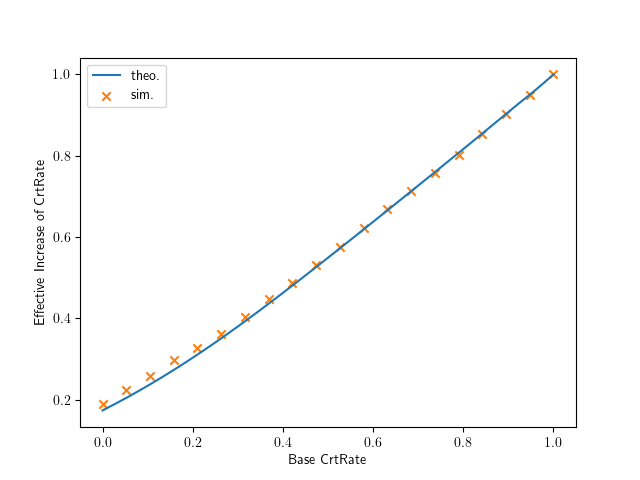
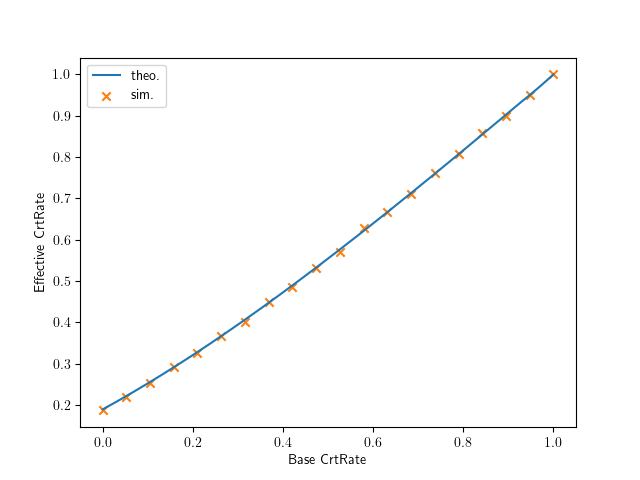
fix theory of royal weapons' crtrate

diff --git a/program/royal_crtrate/theo_sim.py b/program/royal_crtrate/theo_sim.py
@@ -25,7 +25,7 @@ def simulate(nTrial, p, x):
 def theory(p, x):
     r = 1
     ret = 0
-    for n in range(1, 5):
+    for n in range(1, 6):
         q = min(p + (n-1) * x, 1)
         ret += n * q * r
         r *= (1 - q)
@@ -45,7 +45,7 @@ ax = fig.add_subplot(111)
 ax.plot(theoPs, [theory(p, incP) for p in theoPs], label="theo.", color='C0')
 ax.scatter(simPs, [simulate(10000, p, incP) for p in simPs], label="sim.", marker='x', color='C1')
 ax.set_xlabel("Base CrtRate")
-ax.set_ylabel("Effective Increase of CrtRate")
+ax.set_ylabel("Effective CrtRate")
 ax.legend()
 fig.savefig("theo_sim.png")
 

diff --git a/docs/documents.md b/docs/documents.md
@@ -414,9 +414,7 @@ $$
 $$
 
 以下の図は，理論で導出した実質的な確率と，1万回のシミュレーション結果です．
-ちょっとずれているのでもしかしたら理論式が間違っているかもしれませんが，まあまあシミュレーション結果と合っているので良しとしてください．
-なにぶん，私は確率や統計に疎いため．．．
+まあまあシミュレーション結果と合っているので良しとしてください．
 ちなみに，[プログラムの詳細はこちらから参照できます](https://github.com/k3kaimu/genshinopt/blob/master/program/royal_crtrate/theo_sim.py)．
 
 ![CrtRate of Royal Weapons]({{ site.baseurl }}/program/royal_crtrate/theo_sim.png)
-
